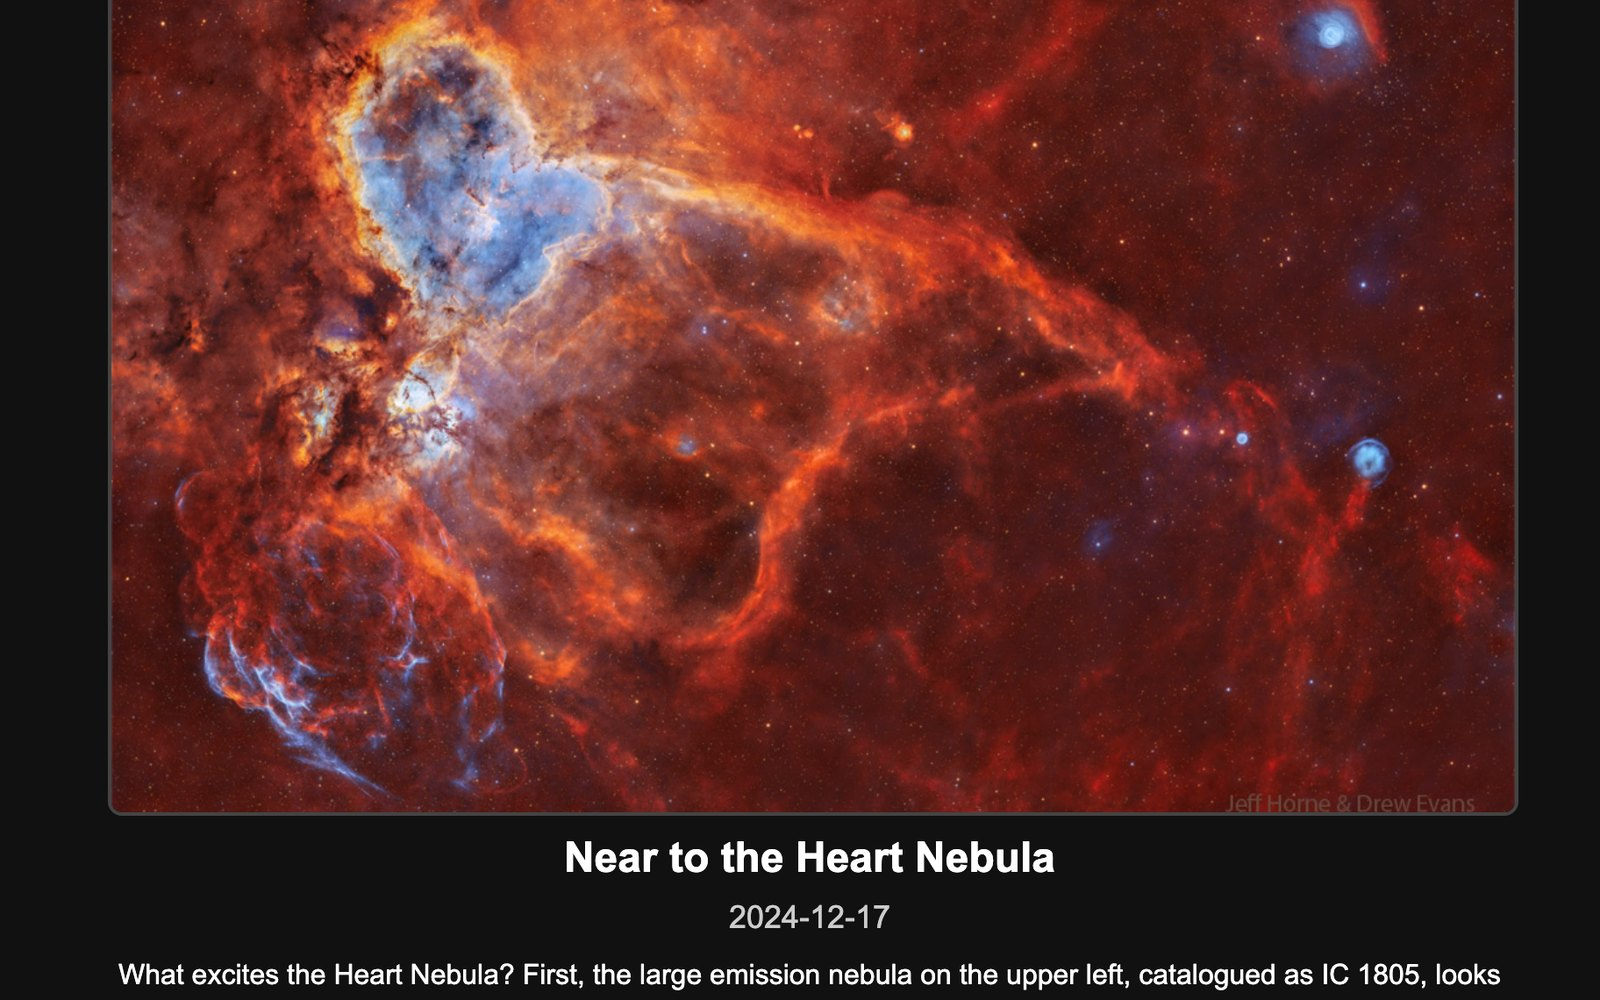
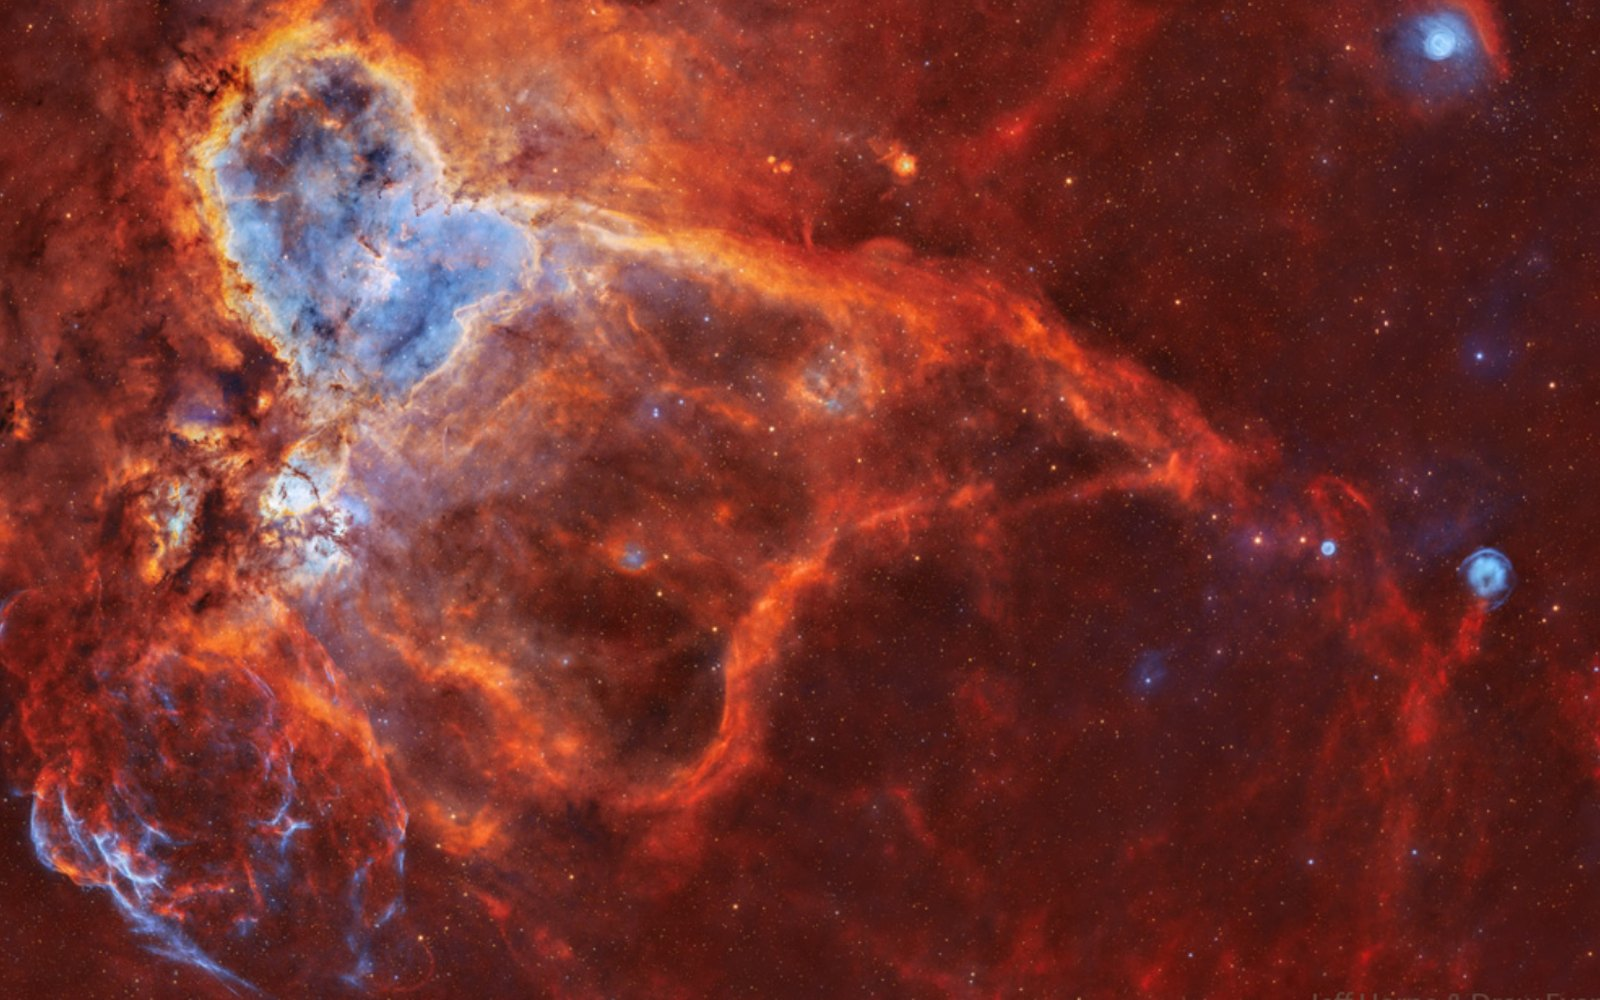
Space game: thumbnails + sound hint
Claude-Session: https://claude.ai/code/session_015KQFJCzFPqNAcjc17UuvdV

diff --git a/builds.html b/builds.html
@@ -18,8 +18,8 @@
 <link rel="preconnect" href="https://fonts.googleapis.com">
 <link rel="preconnect" href="https://fonts.gstatic.com" crossorigin>
 <link href="https://fonts.googleapis.com/css2?family=Anton&family=Caveat:wght@500;600&family=Fraunces:ital,opsz,wght@0,9..144,400;0,9..144,500;1,9..144,400;1,9..144,500&family=Inter:wght@300;400;500&family=JetBrains+Mono:wght@400;500&display=swap" rel="stylesheet">
-<link rel="stylesheet" href="css/site.css?v=202611181255">
-<link rel="stylesheet" href="css/phone.css?v=202611181255">
+<link rel="stylesheet" href="css/site.css?v=202611181259">
+<link rel="stylesheet" href="css/phone.css?v=202611181259">
 </head>
 <body class="theme-denim page-builds">
 <a class="skip" href="#main">Skip to content</a>
@@ -102,7 +102,7 @@
     <div class="space-steps">
       <article class="space-step">
         <button class="space-shot" type="button" data-app="https://sebastianomalley.github.io/apod-viewer/" data-title="Step 1 · Choose your backgrounds">
-          <img src="images/builds/space-apod.jpg" alt="The NASA photo gallery app" loading="lazy">
+          <img src="images/builds/space-apod.jpg?v=2" alt="The NASA photo gallery app" loading="lazy">
           <span class="space-go">Open the gallery</span>
         </button>
         <p class="step">Step 01</p>
@@ -111,7 +111,7 @@
       </article>
       <article class="space-step">
         <button class="space-shot" type="button" data-app="https://sebastianomalley.github.io/space-game/" data-title="Step 2 · Play Defender" data-keys>
-          <img src="images/builds/space-play.jpg" alt="The boss level of the Defender space game" loading="lazy">
+          <img src="images/builds/space-play.jpg?v=2" alt="A spaceship flying past Earth toward an asteroid field" loading="lazy">
           <span class="space-go">Launch the game</span>
         </button>
         <p class="step">Step 02</p>
@@ -125,7 +125,10 @@
 
 <div class="app-viewer" hidden>
   <div class="app-bar"><span class="app-title"></span><button class="app-close" type="button" aria-label="Close">&times;</button></div>
-  <iframe class="app-frame" title="" allow="autoplay; fullscreen"></iframe>
+  <div class="app-stage">
+    <iframe class="app-frame" title="" allow="autoplay; fullscreen"></iframe>
+    <div class="app-hint" hidden><span>Click anywhere in the game to turn on sound, then press <kbd>Space</kbd> to start</span></div>
+  </div>
 </div>
 
 <section class="section" aria-labelledby="how">
@@ -176,8 +179,8 @@
     <span class="foot-copy">© <span class="yr">2026</span> A Digital Media Studio, LLC</span>
   </div>
 </footer>
-<script src="js/site.js?v=202611181255"></script>
-<script src="js/phone.js?v=202611181255"></script>
-<script src="js/apps.js?v=202611181255"></script>
+<script src="js/site.js?v=202611181259"></script>
+<script src="js/phone.js?v=202611181259"></script>
+<script src="js/apps.js?v=202611181259"></script>
 </body>
 </html>

diff --git a/film.html b/film.html
@@ -18,8 +18,8 @@
 <link rel="preconnect" href="https://fonts.googleapis.com">
 <link rel="preconnect" href="https://fonts.gstatic.com" crossorigin>
 <link href="https://fonts.googleapis.com/css2?family=Anton&family=Caveat:wght@500;600&family=Fraunces:ital,opsz,wght@0,9..144,400;0,9..144,500;1,9..144,400;1,9..144,500&family=Inter:wght@300;400;500&family=JetBrains+Mono:wght@400;500&display=swap" rel="stylesheet">
-<link rel="stylesheet" href="css/site.css?v=202611181255">
-<link rel="stylesheet" href="css/work.css?v=202611181255">
+<link rel="stylesheet" href="css/site.css?v=202611181259">
+<link rel="stylesheet" href="css/work.css?v=202611181259">
 </head>
 <body class="theme-ink page-film">
 <a class="skip" href="#main">Skip to content</a>
@@ -162,8 +162,8 @@
     <span class="foot-copy">© <span class="yr">2026</span> A Digital Media Studio, LLC</span>
   </div>
 </footer>
-<script src="js/site.js?v=202611181255"></script>
-<script src="js/work.js?v=202611181255"></script>
-<script src="js/viewer.js?v=202611181255"></script>
+<script src="js/site.js?v=202611181259"></script>
+<script src="js/work.js?v=202611181259"></script>
+<script src="js/viewer.js?v=202611181259"></script>
 </body>
 </html>

diff --git a/photography.html b/photography.html
@@ -18,8 +18,8 @@
 <link rel="preconnect" href="https://fonts.googleapis.com">
 <link rel="preconnect" href="https://fonts.gstatic.com" crossorigin>
 <link href="https://fonts.googleapis.com/css2?family=Anton&family=Caveat:wght@500;600&family=Fraunces:ital,opsz,wght@0,9..144,400;0,9..144,500;1,9..144,400;1,9..144,500&family=Inter:wght@300;400;500&family=JetBrains+Mono:wght@400;500&display=swap" rel="stylesheet">
-<link rel="stylesheet" href="css/site.css?v=202611181255">
-<link rel="stylesheet" href="css/work.css?v=202611181255">
+<link rel="stylesheet" href="css/site.css?v=202611181259">
+<link rel="stylesheet" href="css/work.css?v=202611181259">
 </head>
 <body class="theme-denim page-photography">
 <a class="skip" href="#main">Skip to content</a>
@@ -139,7 +139,7 @@
     <span class="foot-copy">© <span class="yr">2026</span> A Digital Media Studio, LLC</span>
   </div>
 </footer>
-<script src="js/site.js?v=202611181255"></script>
-<script src="js/viewer.js?v=202611181255"></script>
+<script src="js/site.js?v=202611181259"></script>
+<script src="js/viewer.js?v=202611181259"></script>
 </body>
 </html>

diff --git a/index.html b/index.html
@@ -18,8 +18,8 @@
 <link rel="preconnect" href="https://fonts.googleapis.com">
 <link rel="preconnect" href="https://fonts.gstatic.com" crossorigin>
 <link href="https://fonts.googleapis.com/css2?family=Anton&family=Caveat:wght@500;600&family=Fraunces:ital,opsz,wght@0,9..144,400;0,9..144,500;1,9..144,400;1,9..144,500&family=Inter:wght@300;400;500&family=JetBrains+Mono:wght@400;500&display=swap" rel="stylesheet">
-<link rel="stylesheet" href="css/site.css?v=202611181255">
-<link rel="stylesheet" href="css/work.css?v=202611181255">
+<link rel="stylesheet" href="css/site.css?v=202611181259">
+<link rel="stylesheet" href="css/work.css?v=202611181259">
 </head>
 <body class="theme-paper page-index">
 <a class="skip" href="#main">Skip to content</a>
@@ -204,7 +204,7 @@
     <span class="foot-copy">© <span class="yr">2026</span> A Digital Media Studio, LLC</span>
   </div>
 </footer>
-<script src="js/site.js?v=202611181255"></script>
-<script src="js/viewer.js?v=202611181255"></script>
+<script src="js/site.js?v=202611181259"></script>
+<script src="js/viewer.js?v=202611181259"></script>
 </body>
 </html>

diff --git a/js/apps.js b/js/apps.js
@@ -11,6 +11,8 @@
     title.textContent = btn.getAttribute('data-title');
     frame.title = btn.getAttribute('data-title');
     frame.src = btn.getAttribute('data-app');
+    var hint = v.querySelector('.app-hint');
+    hint.hidden = !btn.hasAttribute('data-keys');
     v.hidden = false; document.body.classList.add('viewing');
     // the game listens for keys, so hand it the keyboard as soon as it loads
     frame.onload = function () { try { frame.focus(); } catch (e) {} };
@@ -31,5 +33,10 @@
     });
   });
   v.querySelector('.app-close').addEventListener('click', close);
+  // the hint lets clicks pass through to the game; once the game has focus
+  // (this page loses it), the sound is unlocked and the hint can go
+  window.addEventListener('blur', function () {
+    if (!v.hidden && document.activeElement === frame) v.querySelector('.app-hint').hidden = true;
+  });
   document.addEventListener('keydown', function (e) { if (e.key === 'Escape' && !v.hidden) close(); });
 })();

diff --git a/get-in-touch.html b/get-in-touch.html
@@ -18,7 +18,7 @@
 <link rel="preconnect" href="https://fonts.googleapis.com">
 <link rel="preconnect" href="https://fonts.gstatic.com" crossorigin>
 <link href="https://fonts.googleapis.com/css2?family=Anton&family=Caveat:wght@500;600&family=Fraunces:ital,opsz,wght@0,9..144,400;0,9..144,500;1,9..144,400;1,9..144,500&family=Inter:wght@300;400;500&family=JetBrains+Mono:wght@400;500&display=swap" rel="stylesheet">
-<link rel="stylesheet" href="css/site.css?v=202611181255">
+<link rel="stylesheet" href="css/site.css?v=202611181259">
 </head>
 <body class="theme-ink page-get-in-touch">
 <a class="skip" href="#main">Skip to content</a>
@@ -107,6 +107,6 @@
     <span class="foot-copy">© <span class="yr">2026</span> A Digital Media Studio, LLC</span>
   </div>
 </footer>
-<script src="js/site.js?v=202611181255"></script>
+<script src="js/site.js?v=202611181259"></script>
 </body>
 </html>

diff --git a/retainer.html b/retainer.html
@@ -18,7 +18,7 @@
 <link rel="preconnect" href="https://fonts.googleapis.com">
 <link rel="preconnect" href="https://fonts.gstatic.com" crossorigin>
 <link href="https://fonts.googleapis.com/css2?family=Anton&family=Caveat:wght@500;600&family=Fraunces:ital,opsz,wght@0,9..144,400;0,9..144,500;1,9..144,400;1,9..144,500&family=Inter:wght@300;400;500&family=JetBrains+Mono:wght@400;500&display=swap" rel="stylesheet">
-<link rel="stylesheet" href="css/site.css?v=202611181255">
+<link rel="stylesheet" href="css/site.css?v=202611181259">
 </head>
 <body class="theme-denim page-retainer">
 <a class="skip" href="#main">Skip to content</a>
@@ -122,6 +122,6 @@
     <span class="foot-copy">© <span class="yr">2026</span> A Digital Media Studio, LLC</span>
   </div>
 </footer>
-<script src="js/site.js?v=202611181255"></script>
+<script src="js/site.js?v=202611181259"></script>
 </body>
 </html>

diff --git a/about.html b/about.html
@@ -18,7 +18,7 @@
 <link rel="preconnect" href="https://fonts.googleapis.com">
 <link rel="preconnect" href="https://fonts.gstatic.com" crossorigin>
 <link href="https://fonts.googleapis.com/css2?family=Anton&family=Caveat:wght@500;600&family=Fraunces:ital,opsz,wght@0,9..144,400;0,9..144,500;1,9..144,400;1,9..144,500&family=Inter:wght@300;400;500&family=JetBrains+Mono:wght@400;500&display=swap" rel="stylesheet">
-<link rel="stylesheet" href="css/site.css?v=202611181255">
+<link rel="stylesheet" href="css/site.css?v=202611181259">
 </head>
 <body class="theme-ink page-about">
 <a class="skip" href="#main">Skip to content</a>
@@ -133,6 +133,6 @@
     <span class="foot-copy">© <span class="yr">2026</span> A Digital Media Studio, LLC</span>
   </div>
 </footer>
-<script src="js/site.js?v=202611181255"></script>
+<script src="js/site.js?v=202611181259"></script>
 </body>
 </html>

diff --git a/css/site.css b/css/site.css
@@ -651,3 +651,10 @@ body::after{
 .plus-list li{display:block;position:relative;padding-left:26px;line-height:1.55}
 .plus-list li::before{position:absolute;left:0;top:0;font-weight:600}
 .plus-list li strong{display:block;margin-bottom:2px}
+.app-stage{position:relative;flex:1;display:flex}
+.app-hint{position:absolute;left:50%;bottom:28px;transform:translateX(-50%);pointer-events:none;z-index:2}
+.app-hint[hidden]{display:none}
+.app-hint span{display:inline-block;padding:12px 18px;background:rgba(22,21,15,.85);border:1px solid #E0B25C;color:#EAD7B6;
+  font-family:var(--mono);font-size:12px;letter-spacing:.1em;text-transform:uppercase;animation:hintPulse 2s ease-in-out infinite}
+.app-hint kbd{font-family:inherit;color:#E0B25C}
+@keyframes hintPulse{50%{opacity:.6}}
